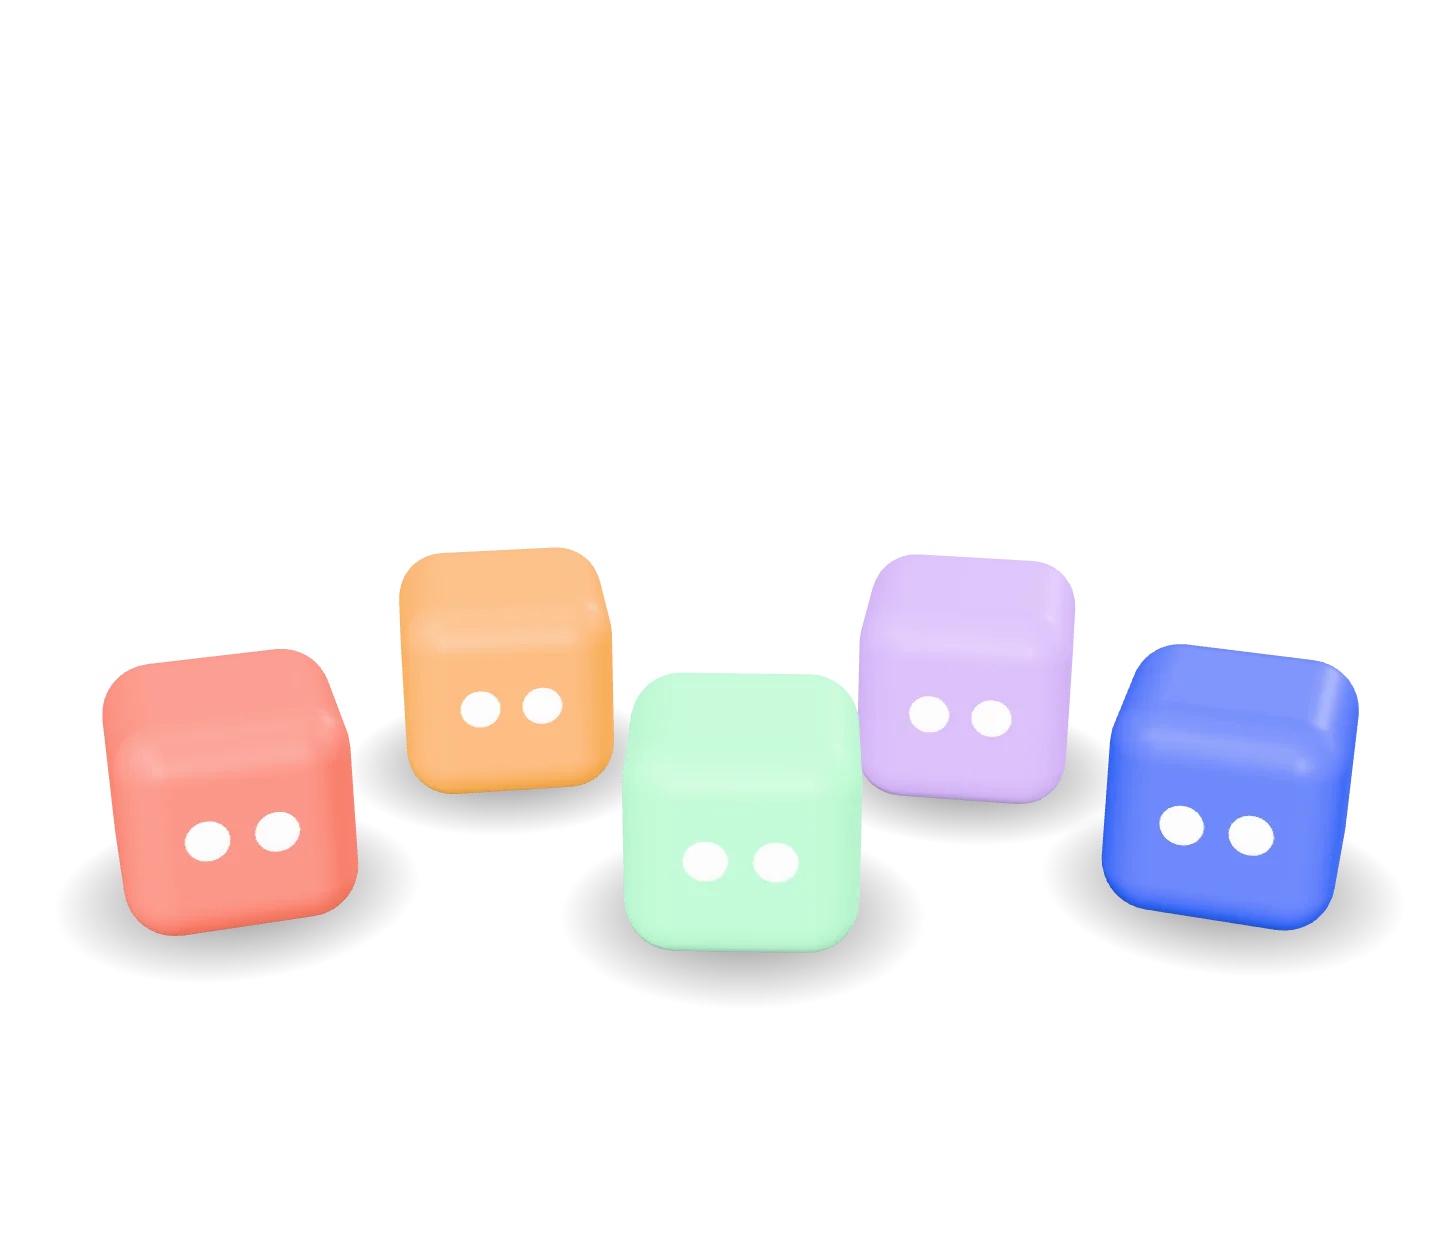
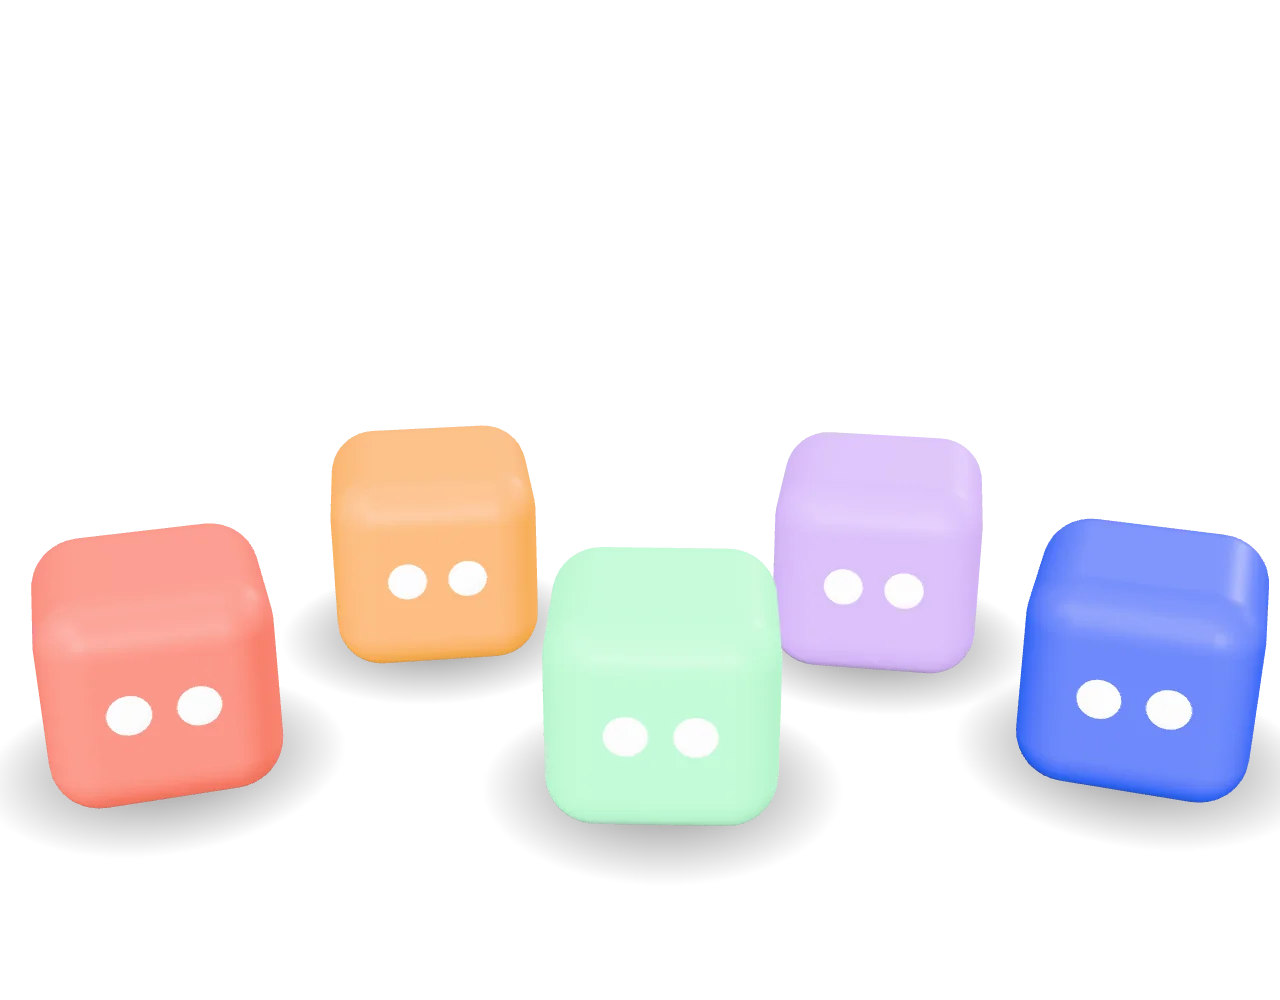
Hero: nimbi più grandi da desktop
Inquadratura più stretta del gruppo (5,9 × 4,2 invece di 6,5 × 4,4) e riquadro più grande
a destra del testo (640 × 500 unità della tavola): i cubi sono circa un terzo più grandi,
sempre senza toccare il titolo. Nuovo poster.

Claude-Session: https://claude.ai/code/session_014pV8yEUBgFEm2L5scjpowT

Changed region(s): [[0.0, 0.403, 1.0, 0.868]]

diff --git a/src/lib/marks3d.js b/src/lib/marks3d.js
@@ -135,7 +135,7 @@ const LAYOUTS = {
   play: {
     homes: [[-2.15, 0.55], [-1.05, -0.75], [0.1, 0.75], [1.2, -0.65], [2.25, 0.5]],
     yaws: [0.3, 0.14, -0.03, -0.16, -0.32],
-    need: [6.5, 4.4], // world width and height the camera must show (room for a spin at the edges)
+    need: [5.9, 4.2], // world width and height the camera must show (room for a spin at the edges)
     fov: 30,
     lookAtY: 1.05,
     tilt: 0.4,

diff --git a/src/styles/nimbo.css b/src/styles/nimbo.css
@@ -333,8 +333,8 @@ body {
   z-index: 0;
   right: calc((100% - 1440 * var(--pm-u)) / 2 + 30 * var(--pm-u));
   bottom: calc(96 * var(--pm-u));
-  width: calc(580 * var(--pm-u));
-  height: calc(460 * var(--pm-u));
+  width: calc(640 * var(--pm-u));
+  height: calc(500 * var(--pm-u));
 }
 
 @media (max-width: 1079.98px) {
